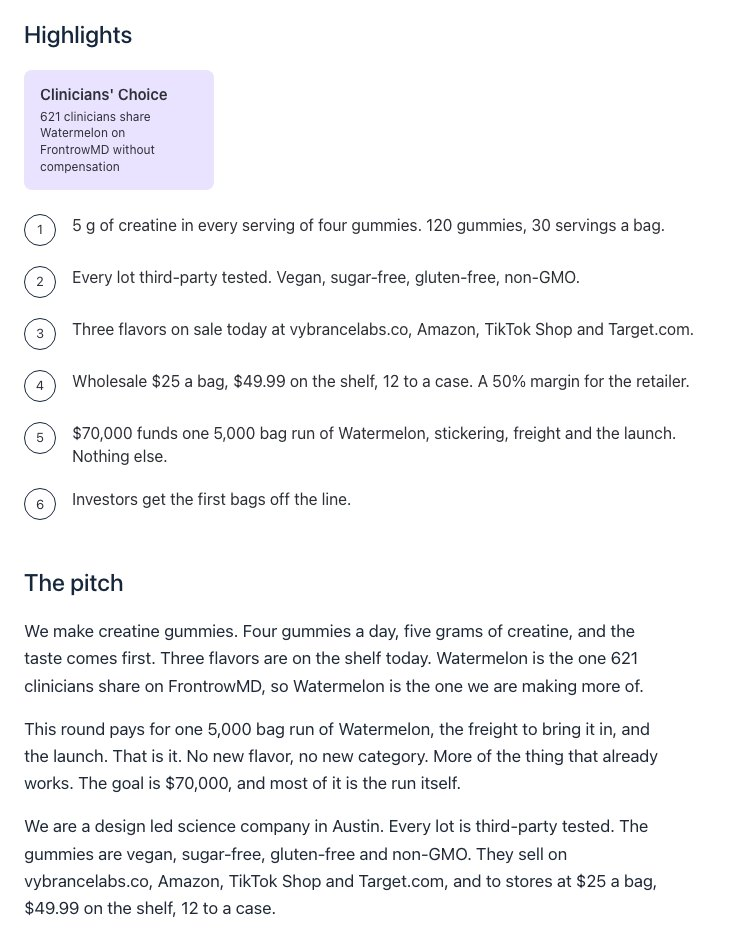
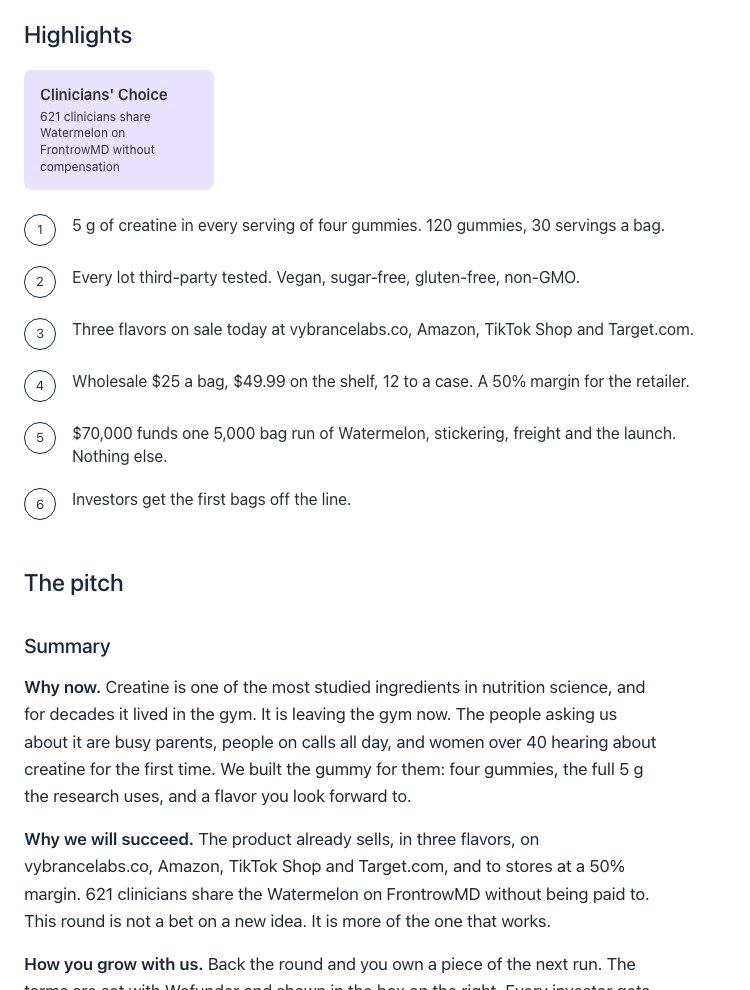
Example page: full pitch memo in Wefunder section order

Changed region(s): [[0.0307, 0.0309, 0.92, 1.0]]

diff --git a/wefunder/example/index.html b/wefunder/example/index.html
@@ -99,7 +99,7 @@ body:not(.locked) #gate{display:none}
 .tile.photo .cap{position:absolute;left:18px;bottom:16px;color:#fff;font-weight:700;font-size:clamp(16px,2.2vw,22px);letter-spacing:-.03em;text-shadow:0 1px 12px rgba(0,0,0,.45)}
 .tile .l{margin-top:auto;font-size:13px;line-height:1.7;letter-spacing:0}
 .tile .l b{font-weight:700}
-.memo{font-size:17px;line-height:1.6;color:#1f2937;max-width:640px}.memo p{margin-bottom:16px}
+.memo{font-size:17px;line-height:1.6;color:#1f2937;max-width:640px}.memo p{margin-bottom:16px}.memo h3{font-size:20px;font-weight:500;color:#16263d;margin:30px 0 12px}.memo b{font-weight:600;color:#16263d}
 .memo .sig{font-style:normal;color:var(--mute);font-size:14px}
 .tm img{width:66px;height:66px;border-radius:50%;object-fit:cover;display:block}
 .terms2{font-size:14px;color:#374151;border:1px solid var(--hair);border-radius:10px;padding:16px 18px;margin-top:8px}
@@ -143,11 +143,46 @@ body:not(.locked) #gate{display:none}
 
       <h2>The pitch</h2>
       <div class="memo">
-        <p>We make creatine gummies. Four gummies a day, five grams of creatine, and the taste comes first. Three flavors are on the shelf today. Watermelon is the one 621 clinicians share on FrontrowMD, so Watermelon is the one we are making more of.</p>
-        <p>This round pays for one 5,000 bag run of Watermelon, the freight to bring it in, and the launch. That is it. No new flavor, no new category. More of the thing that already works. The goal is $70,000, and most of it is the run itself.</p>
-        <p>We are a design led science company in Austin. Every lot is third-party tested. The gummies are vegan, sugar-free, gluten-free and non-GMO. They sell on vybrancelabs.co, Amazon, TikTok Shop and Target.com, and to stores at $25 a bag, $49.99 on the shelf, 12 to a case.</p>
-        <p>Invest and you get the first bags off the line. Thank you for reading.</p>
-        <p class="sig">Lawrence Whitaker III, Co-Founder</p>
+        <h3>Summary</h3>
+        <p><b>Why now.</b> Creatine is one of the most studied ingredients in nutrition science, and for decades it lived in the gym. It is leaving the gym now. The people asking us about it are busy parents, people on calls all day, and women over 40 hearing about creatine for the first time. We built the gummy for them: four gummies, the full 5 g the research uses, and a flavor you look forward to.</p>
+        <p><b>Why we will succeed.</b> The product already sells, in three flavors, on vybrancelabs.co, Amazon, TikTok Shop and Target.com, and to stores at a 50% margin. 621 clinicians share the Watermelon on FrontrowMD without being paid to. This round is not a bet on a new idea. It is more of the one that works.</p>
+        <p><b>How you grow with us.</b> Back the round and you own a piece of the next run. The terms are set with Wefunder and shown in the box on the right. Every investor gets the first bags off the line, and the perks climb from there.</p>
+        <p><b>The product.</b> Creatine Monohydrate Gummies. 5 g creatine, 500 mg taurine and 120 mcg vitamin B12 in every serving of four. Vegan, sugar-free, gluten-free, non-GMO, no artificial dyes. Watermelon, Citrus Mango and Green Apple, colored naturally.</p>
+
+        <h3>The Opportunity</h3>
+        <p>In 2017 a concussion sent me down a road I did not choose. Light hurt. Noise hurt. Thinking slowed. Hardest of all, I could not move, and movement is medicine. Without it, mind and body drain each other.</p>
+        <p>Looking for anything that might help me recover, I found creatine. Athletes had trusted it for decades. I saw how many more people it could serve. That belief became Vybrance Labs, founded in Austin with Martin Crowley.</p>
+        <p>Here is the opportunity in one line: creatine works for far more people than have ever taken it, and most of them will never scoop a powder. A gummy that tastes good, carries the full dose and looks like something you keep on the counter is how they start.</p>
+        <div class="tile photo" style="aspect-ratio:16/9;margin:8px 0 24px"><img src="community.jpg" alt="The Vybrance community on set"><div class="cap">Adventure Hike, CityWalk, Floor Work. Austin, every month.</div></div>
+
+        <h3>Our Product</h3>
+        <p>One product, done right. Four gummies carry 5 g of creatine monohydrate, plus taurine and vitamin B12. The dose the research uses is the dose in the bag. A bag is 120 gummies, 30 servings, one month.</p>
+        <p>Taste is our north star. If it is not good enough to look forward to, it does not ship. Three flavors: Watermelon, Citrus Mango and Green Apple. Made in a cGMP facility in the USA. Third-party tested, every lot.</p>
+        <p>Watermelon is the one people call out first. 621 clinicians share it on FrontrowMD. When a national TV shopping buyer tasted all three this summer, Watermelon was the one she named. This round makes more of it.</p>
+
+        <h3>Why We'll Succeed</h3>
+        <p><b>It already sells, in four places.</b> vybrancelabs.co, Amazon, TikTok Shop and Target.com. Stores buy it at $25 a bag, sell it at $49.99, 12 to a case, Net 30. That is a 50% margin for the retailer, the number buyers ask for first.</p>
+        <p><b>The proof is independent.</b> FrontrowMD clinicians can receive samples and are never paid to write an evaluation. 621 of them share Watermelon. Two of their full reviews are below.</p>
+        <p><b>It is a community, not a customer list.</b> Adventure Hike, CityWalk and Floor Work run in Austin every month, in person, and A Day of Vybrance is our yearly activation. The films on this page came out of those days.</p>
+        <p><b>The team has done the hard part.</b> Martin leads the formulation, from the creatine dose to the taste. I lead the brand, the films and the design through VYB LABS. Josh Walker designed the packaging you are looking at, and Moyo Oyelola directs the films.</p>
+
+        <h3>How You Grow With Us</h3>
+        <p>This is a community round. Anyone can invest, from $100. The investment terms are set with Wefunder and live in the box on the right when the round opens. What we control is the perks, and we made them real:</p>
+        <p>$100 gets the first bags off the new run. $250 gets a 90 day supply, three bags. $500 puts your name in the release post. $1,000 gets you into A Day of Vybrance, our yearly activation in Austin, every year. $5,000 gets a founder call and a year of gummies. $10,000 gets a day on set at the next brand shoot.</p>
+        <p>Vybrance means what it sounds like. We would rather have a thousand people who take four gummies a day and show up to a hike than one investor who never opens the bag.</p>
+
+        <h3>Growing Momentum</h3>
+        <p>Three flavors on sale today. Green Apple on Target.com since April 2025. Amazon and TikTok Shop live. A national subscription box confirmed a first order of all three flavors this fall. Wholesale open at the line sheet price to any store that wants it.</p>
+        <p>And the retail conversations that matter to a supplement brand, QVC among them, started this summer with the same three bags.</p>
+        <div class="tile photo" style="aspect-ratio:16/9;margin:8px 0 24px"><img src="hero-tray.jpg" alt="Watermelon gummies"><div class="cap">Taste comes first.</div></div>
+
+        <h3>Why Customers Love Us</h3>
+        <p>It tastes like candy and works like creatine. Four gummies, no scoop, no shaker, no chalk. People keep the bag on the counter, which is the whole point: the best supplement is the one you actually take. The clinician reviews below say the same thing in their own words.</p>
+
+        <h3>How We're Using the Funding</h3>
+        <p>One thing. A 5,000 bag production run of Watermelon at our manufacturer, the stickering, the freight to bring it in, and the launch. About $63,000 of the $70,000 goal is the run itself. No new flavor, no new category, no new hires. More of the thing that works, and the first bags go to the people on this page.</p>
+        <p>Thank you for reading this far. Movement is life. Let's make more of it.</p>
+        <p class="sig">Lawrence Whitaker III, Co-Founder &amp; CEO, Vybrance Labs™, Austin, Texas</p>
       </div>
 
       <h2>Clinician proof</h2>
@@ -197,13 +232,15 @@ body:not(.locked) #gate{display:none}
 
       <h2>FAQ</h2>
       <dl class="faq">
-        <dt>What exactly does the money do?</dt><dd>One 5,000 bag run of Watermelon, plus stickering, freight and the launch. $70,000 total, most of it the run.</dd><dt>Why 5,000 bags?</dt><dd>It is the smallest run that makes sense at our manufacturer.</dd>
-        <dt>Is it tested?</dt><dd>Every lot, by a third party.</dd>
-        <dt>Where is it sold today?</dt><dd>vybrancelabs.co, Amazon, TikTok Shop and Target.com.</dd>
-        <dt>What is a serving?</dt><dd>Four gummies. 5 g creatine, 500 mg taurine, 120 mcg B12. A bag is 120 gummies, 30 servings.</dd>
-        <dt>Who makes it?</dt><dd>A US manufacturer under contract to Vybrance Labs LLC. Every lot is third-party tested.</dd>
-        <dt>What are the terms?</dt><dd>Set with Wefunder and shown in the box on the right when the round opens.</dd>
-        <dt>When do I get my perks?</dt><dd>The first bags ship the week the run is released.</dd>
+        <dt>What is Vybrance Labs and what makes it different?</dt><dd>A design led science company in Austin, Texas. We make creatine monohydrate gummies: 5 g of creatine, 500 mg taurine and 120 mcg B12 in four gummies, vegan, sugar-free, and good enough to look forward to. Athletes have trusted creatine for decades. We made it for everyone else too.</dd>
+        <dt>What exactly does the money do?</dt><dd>One 5,000 bag run of Watermelon, plus stickering, freight and the launch. $70,000 total, most of it the run.</dd>
+        <dt>Why Watermelon, and why 5,000 bags?</dt><dd>Watermelon is the flavor clinicians share most and the one buyers name first. 5,000 bags is the smallest run that makes sense at our manufacturer.</dd>
+        <dt>What type of investment is this?</dt><dd>The terms are set with Wefunder and shown in the box on the right when the round opens. This sample page does not state them.</dd>
+        <dt>What is the minimum investment and who can invest?</dt><dd>Wefunder community rounds are open to everyone, from $100.</dd>
+        <dt>Is it tested?</dt><dd>Every lot, by a third party. Made in a cGMP facility in the USA.</dd>
+        <dt>Where is it sold today?</dt><dd>vybrancelabs.co, Amazon, TikTok Shop and Target.com, and wholesale to stores at $25 a bag.</dd>
+        <dt>When do I get my perks?</dt><dd>The first bags ship the week the run is released. A Day of Vybrance entry is good every year.</dd>
+        <dt>I have a question that is not listed here.</dt><dd>Ask it under the film, in the Ask a Question tab. We answer every one.</dd>
       </dl>
     </div>
 
